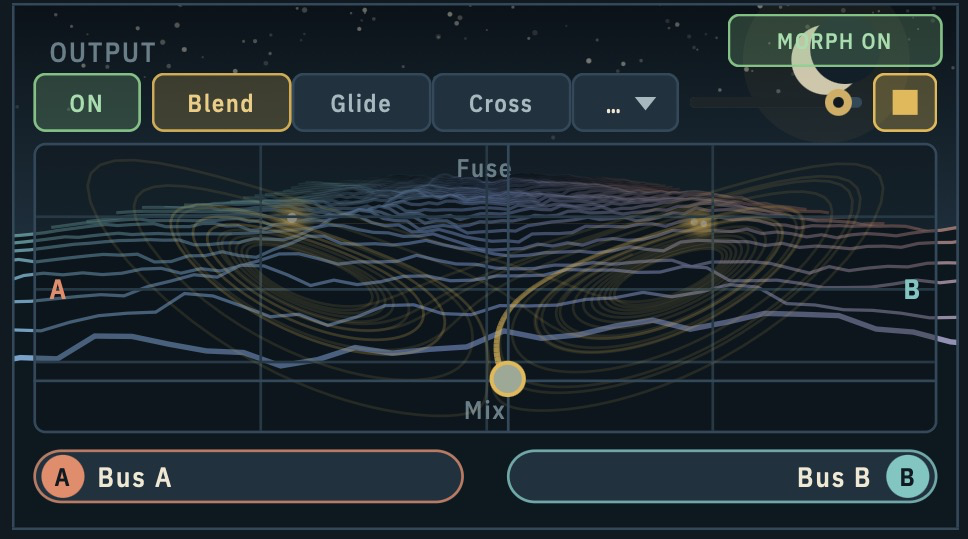
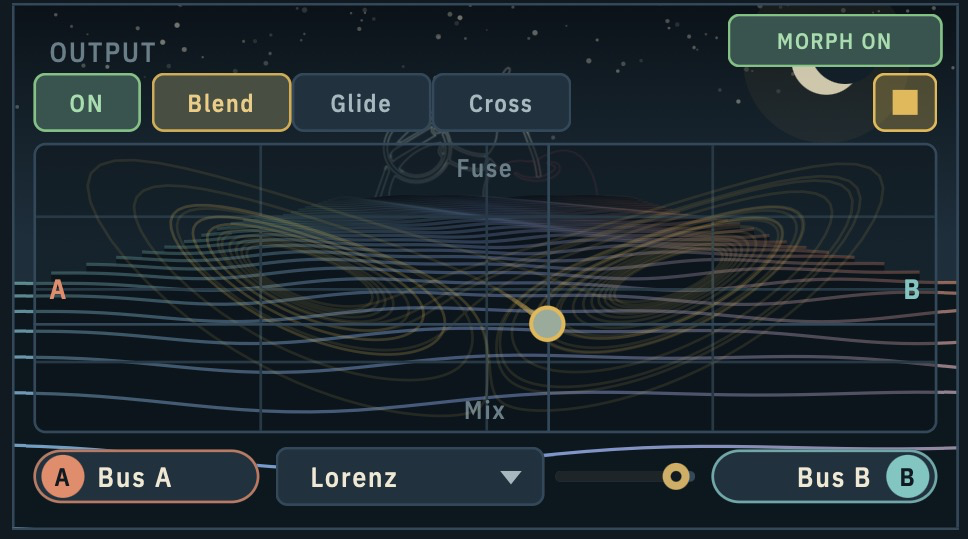
Swooshbuckler: undo in edit order, honest Boost readout, morph pad fixes
- Cmd+Z / Shift+Cmd+Z undo and redo the latest load or removal across all
  tracks (CargoHold keeps the order of edits), so x then Cmd+Z brings that
  track back wherever the selection went. Tested in CargoTest.
- Boost shows the gain the hits really get (-6 to +12 dB, default +6 dB);
  the stored value and the sound are unchanged.
- Lit buttons get a solid base, so the moon no longer shows through MORPH ON.
- Morph pad: narrower Bus A / Bus B labels with the wander shape menu and
  speed between them, so the shape names fit; the OFF veil leaves them be.

diff --git a/swooshbuckler/Source/MorphPad.cpp b/swooshbuckler/Source/MorphPad.cpp
@@ -241,8 +241,11 @@ void MorphPad::paintOverChildren(juce::Graphics& g)
     if (m_enabled)
         return;
     // A grey veil over the pad and the bus labels while the morph is off.
+    // The pad and each label on their own, so the wander controls between the labels only get their usual dimming.
     g.setColour(Theme::Colours::background.withAlpha(0.5f));
-    g.fillRoundedRectangle(m_pad.getUnion(m_handles[0]).getUnion(m_handles[1]).expanded(2.0f), 4.0f);
+    g.fillRoundedRectangle(m_pad.expanded(2.0f), 4.0f);
+    for (const auto& h : m_handles)
+        g.fillRoundedRectangle(h.expanded(2.0f), 4.0f);
     g.setFont(m_fonts.label(11.0f));
     g.setColour(Theme::Colours::textDim);
     g.drawText("MORPH OFF", m_pad.withTrimmedTop(m_pad.getHeight() * 0.62f), juce::Justification::centredTop);
@@ -410,6 +413,7 @@ void MorphPad::setFixedSources(juce::String nameA, juce::Colour colourA, juce::S
     m_fixedSources = true;
     m_names = { nameA, nameB };
     m_fixedColours = { colourA, colourB };
+    resized(); // narrower labels, with the wander shape and speed between them
     repaint();
 }
 
@@ -434,14 +438,31 @@ void MorphPad::resized()
         mb.setBounds(top.removeFromLeft(modeW));
     m_wanderButton->setBounds(top.removeFromRight(24));
     top.removeFromRight(4);
-    m_speed.setBounds(top.removeFromRight(juce::jmin(64, top.getWidth())));
-    top.removeFromRight(4);
-    m_shapeBox.setBounds(top.removeFromRight(juce::jmin(110, top.getWidth())));
 
-    auto bottom = b.removeFromBottom(24).toFloat();
-    const float handleW = juce::jmin(160.0f, bottom.getWidth() * 0.5f - 4.0f);
-    m_handles[0] = bottom.removeFromLeft(handleW).reduced(0.0f, 2.0f);
-    m_handles[1] = bottom.removeFromRight(handleW).reduced(0.0f, 2.0f);
+    auto bottom = b.removeFromBottom(24);
+    if (m_fixedSources)
+    {
+        // Fixed sources are just labels, so they can be narrow: the wander shape and speed sit between them,
+        // where the shape names have room to be read.
+        const int handleW = juce::jmin(84, bottom.getWidth() / 4);
+        m_handles[0] = bottom.removeFromLeft(handleW).toFloat().reduced(0.0f, 2.0f);
+        m_handles[1] = bottom.removeFromRight(handleW).toFloat().reduced(0.0f, 2.0f);
+        auto middle = bottom.reduced(6, 1);
+        m_speed.setBounds(middle.removeFromRight(juce::jmin(56, middle.getWidth() / 3)));
+        middle.removeFromRight(4);
+        m_shapeBox.setBounds(middle);
+    }
+    else
+    {
+        // Rope handles show lane names and need the width: the wander shape and speed go in the top row.
+        m_speed.setBounds(top.removeFromRight(juce::jmin(64, top.getWidth())));
+        top.removeFromRight(4);
+        m_shapeBox.setBounds(top.removeFromRight(juce::jmin(110, top.getWidth())));
+        const float handleW = juce::jmin(160.0f, static_cast<float>(bottom.getWidth()) * 0.5f - 4.0f);
+        auto bf = bottom.toFloat();
+        m_handles[0] = bf.removeFromLeft(handleW).reduced(0.0f, 2.0f);
+        m_handles[1] = bf.removeFromRight(handleW).reduced(0.0f, 2.0f);
+    }
 
     m_pad = b.toFloat().reduced(0.0f, 4.0f);
 }

diff --git a/swooshbuckler/Source/Cargo.cpp b/swooshbuckler/Source/Cargo.cpp
@@ -373,6 +373,10 @@ void CargoHold::publish(int track, std::shared_ptr<CargoData> data, bool recordU
                 retire(r);
             t.redo.clear();
             t.redoMeta.clear();
+            m_undoOrder.push_back(track);
+            if (m_undoOrder.size() > static_cast<size_t>(c_maxUndo * c_numTracks))
+                m_undoOrder.erase(m_undoOrder.begin());
+            m_redoOrder.clear(); // a new edit ends the redo chain, as in any editor
         }
 
         // Keep the old data alive a while even if no undo entry holds it (and while a player still reads it).
@@ -668,6 +672,54 @@ void CargoHold::fade(int track, int start, int end, bool fadeIn)
     publish(track, makeEdited(track, out), true);
 }
 
+int CargoHold::undoLatest()
+{
+    while (! m_undoOrder.empty())
+    {
+        const int track = m_undoOrder.back();
+        m_undoOrder.pop_back();
+        if (canUndo(track))
+        {
+            undo(track);
+            m_redoOrder.push_back(track);
+            return track;
+        }
+    }
+    return -1;
+}
+
+int CargoHold::redoLatest()
+{
+    while (! m_redoOrder.empty())
+    {
+        const int track = m_redoOrder.back();
+        m_redoOrder.pop_back();
+        if (canRedo(track))
+        {
+            redo(track);
+            m_undoOrder.push_back(track);
+            return track;
+        }
+    }
+    return -1;
+}
+
+bool CargoHold::canUndoLatest() const
+{
+    for (const int track : m_undoOrder)
+        if (canUndo(track))
+            return true;
+    return false;
+}
+
+bool CargoHold::canRedoLatest() const
+{
+    for (const int track : m_redoOrder)
+        if (canRedo(track))
+            return true;
+    return false;
+}
+
 void CargoHold::undo(int track)
 {
     auto& t = m_tracks[static_cast<size_t>(track)];
@@ -882,6 +934,8 @@ void CargoHold::fromValueTree(const juce::ValueTree& tree)
         t.redo.clear();
         t.undoMeta.clear();
         t.redoMeta.clear();
+        m_undoOrder.clear();
+        m_redoOrder.clear();
         t.skipSilence = true;
         t.roleOverride = -1;
         t.userName = {};

diff --git a/swooshbuckler/Source/Parameters.h b/swooshbuckler/Source/Parameters.h
@@ -105,8 +105,16 @@ namespace Params
 
         layout.add(pct(ParamIDs::hitSense, "Hit Sensitivity", 0.5f));
         layout.add(std::make_unique<P>(ParameterID { ParamIDs::hitBoost, 2 }, "Hit Boost", NormalisableRange<float>(0.0f, 18.0f), 12.0f,
-                                       AudioParameterFloatAttributes().withLabel("dB").withStringFromValueFunction(
-                                           [](float v, int) { return "+" + String(v, 1) + " dB"; })));
+                                       // The stored value is 0..18 (sessions and presets keep it); the engine plays it 6 dB lower,
+                                       // so the readout shows the gain the hits really get: -6 .. +12 dB.
+                                       AudioParameterFloatAttributes().withLabel("dB")
+                                           .withStringFromValueFunction([](float v, int)
+                                           {
+                                               // Round first so values just under 0 read "+0.0", not "-0.0".
+                                               const float db = std::round((v - 6.0f) * 10.0f) / 10.0f;
+                                               return (db >= 0.0f ? "+" : "") + String(db == 0.0f ? 0.0f : db, 1) + " dB";
+                                           })
+                                           .withValueFromStringFunction([](const String& t) { return t.retainCharacters("-+.0123456789").getFloatValue() + 6.0f; })));
         layout.add(std::make_unique<P>(ParameterID { ParamIDs::hitRelease, 2 }, "Hit Release", NormalisableRange<float>(0.0f, 1.0f), 0.35f,
                                        AudioParameterFloatAttributes().withStringFromValueFunction(
                                            [](float v, int) { return String(roundToInt(60.0f + v * 1140.0f)) + " ms"; })));

diff --git a/swooshbuckler/Source/CargoHoldView.cpp b/swooshbuckler/Source/CargoHoldView.cpp
@@ -823,8 +823,8 @@ void CargoHoldView::updateButtons()
             case Action::FadeIn: case Action::FadeOut: enabled = sel; break;
             case Action::Reverse: case Action::Normalise: enabled = hasData; break;
             case Action::Paste: enabled = m_hold.hasClipboard(); break;
-            case Action::Undo: enabled = m_hold.canUndo(m_active); break;
-            case Action::Redo: enabled = m_hold.canRedo(m_active); break;
+            case Action::Undo: enabled = m_hold.canUndoLatest(); break;
+            case Action::Redo: enabled = m_hold.canRedoLatest(); break;
             case Action::Load: break;
         }
         b->setEnabled(enabled);
@@ -860,8 +860,19 @@ void CargoHoldView::perform(Action action)
         case Action::Normalise: if (lane.hasData()) m_hold.normalise(t, s, e); break;
         case Action::FadeIn:    if (sel) m_hold.fade(t, s, e, true); break;
         case Action::FadeOut:   if (sel) m_hold.fade(t, s, e, false); break;
-        case Action::Undo:      m_hold.undo(t); break;
-        case Action::Redo:      m_hold.redo(t); break;
+        // Undo / redo follow the order of the edits across every track (so x then Cmd+Z brings that track back,
+        // wherever the selection went), and select the track they acted on.
+        case Action::Undo:
+        case Action::Redo:
+        {
+            const int acted = action == Action::Undo ? m_hold.undoLatest() : m_hold.redoLatest();
+            if (acted >= 0 && m_lanes[static_cast<size_t>(acted)]->hasData())
+                setActiveTrack(acted);
+            for (auto& l : m_lanes)
+                l->refresh();
+            updateButtons();
+            return;
+        }
     }
     lane.refresh();
     updateButtons();

diff --git a/swooshbuckler/Source/PluginEditor.cpp b/swooshbuckler/Source/PluginEditor.cpp
@@ -645,7 +645,7 @@ SwooshbucklerAudioProcessorEditor::SwooshbucklerAudioProcessorEditor(Swooshbuckl
 
     // Hits + output --------------------------------------------------------------
     addKnob(ParamIDs::hitSense, "Sensitivity", TC::record, "How easily the hit gate opens. It listens to buses A and B together; what counts as a trigger depends on the GATE mode. Low: only the biggest moments fire the hits. High: they fire often.");
-    addKnob(ParamIDs::hitBoost, "Boost", TC::record, "How much the hit tracks jump up when the gate opens (up to +18 dB). More makes the hits punch out of the whoosh.");
+    addKnob(ParamIDs::hitBoost, "Boost", TC::record, "How much the hit tracks jump up when the gate opens, from 6 dB under their own level to 12 dB over it. More makes the hits punch out of the whoosh.");
     addKnob(ParamIDs::hitRelease, "Release", TC::record, "How long the hits tail out after the gate opens. Short: tight, dry impacts. Long: the hits ring on into the next swell.");
     addKnob(ParamIDs::hitHold, "Hold", TC::record, "How long the gate stays open once it opens. Longer stops it chattering open and shut, so each hit reads as one event.");
     addKnob(ParamIDs::hitFloor, "Floor", TC::record, "How far the gate closes between hits. Closed (fully left): the hits vanish completely between peaks, like the original rig. Turn it up and they stay quietly under the mix instead.");

diff --git a/swooshbuckler/Source/Cargo.h b/swooshbuckler/Source/Cargo.h
@@ -151,6 +151,12 @@ public:
     void redo(int track);
     bool canUndo(int track) const { return ! m_tracks[static_cast<size_t>(track)].undo.empty(); }
     bool canRedo(int track) const { return ! m_tracks[static_cast<size_t>(track)].redo.empty(); }
+    /** Undo / redo across every track, in the order the edits were made (what Cmd+Z and Shift+Cmd+Z do).
+        Return the track they acted on, or -1 when there is nothing to undo / redo. */
+    int undoLatest();
+    int redoLatest();
+    bool canUndoLatest() const;
+    bool canRedoLatest() const;
     bool hasClipboard() const { return m_clipboard.getNumSamples() > 0; }
 
     juce::AudioFormatManager& getFormatManager() { return m_formats; }
@@ -194,6 +200,10 @@ private:
     bool validRange(int track, int& start, int& end) const;
 
     std::array<Track, c_numTracks> m_tracks;
+    // Which track each undoable edit touched, oldest first (message thread). An edit pushes its track to
+    // m_undoOrder and empties m_redoOrder; undoLatest / redoLatest move tracks between the two. Entries whose
+    // track has nothing left to undo (history trimmed at c_maxUndo) are skipped.
+    std::vector<int> m_undoOrder, m_redoOrder;
     std::array<std::atomic<bool>, c_numLanes> m_mute {}, m_solo {};   //
     std::atomic<int> m_soloCount { 0 };
     std::array<std::atomic<float>, c_numTracks> m_start {};

diff --git a/swooshbuckler/Tests/CargoTest.cpp b/swooshbuckler/Tests/CargoTest.cpp
@@ -302,6 +302,22 @@ int main(int argc, char* argv[])
             lane.redo(1);
             check(lane.get(1) == nullptr && lane.getRoleOverride(1) == -1 && lane.getDisplayName(1) == "Track 2",
                   "cargo: redo clears them again");
+
+            // Cmd+Z / Shift+Cmd+Z follow the order of the edits across tracks (remove two, load one, then undo).
+            CargoHold order;
+            order.loadFile(0, tmp, err);
+            order.loadFile(1, tmp, err);
+            order.clear(0);
+            order.clear(1);
+            order.loadFile(2, tmp, err);
+            const int u1 = order.undoLatest(), u2 = order.undoLatest(), u3 = order.undoLatest();
+            check(u1 == 2 && order.get(2) == nullptr, "undo order: the latest edit (a load on track 3) goes first");
+            check(u2 == 1 && order.get(1) != nullptr && u3 == 0 && order.get(0) != nullptr,
+                  "undo order: then the removals, newest first, so both removed tracks come back");
+            const int r1 = order.redoLatest();
+            check(r1 == 0 && order.get(0) == nullptr && order.get(1) != nullptr, "undo order: redo replays the most recently undone edit first");
+            order.loadFile(3, tmp, err);
+            check(! order.canRedoLatest() && order.redoLatest() == -1, "undo order: a new edit ends the redo chain");
         }
     }
 

diff --git a/swooshbuckler/Source/RigEngine.cpp b/swooshbuckler/Source/RigEngine.cpp
@@ -654,7 +654,7 @@ void RigEngine::renderHits(int frames)
     const float sense = sj::clamp(m_params.hitSense, 0.0f, 1.0f);
     const float threshold = sj::dbToGain(-0.5f - 3.0f * sense);         // how close to the recent peak
     const float overAverage = sj::dbToGain(3.0f + 5.0f * (1.0f - sense)); // and how far above the average
-    const float boost = sj::dbToGain(m_params.hitBoost - 6.0f);
+    const float boost = sj::dbToGain(m_params.hitBoost - 6.0f); // the Boost readout shows this (-6 .. +12 dB)
     const float release = 1.0f - std::exp(-1.0f / (0.001f * sj::lerp(60.0f, 1200.0f, m_params.hitRelease) * m_fs));
     const float attack = coef(2.0f, m_fs);
     const float holdTime = 0.5f * sj::clamp(m_params.hitHold, 0.0f, 1.0f);

diff --git a/swooshbuckler/Source/LookAndFeel.cpp b/swooshbuckler/Source/LookAndFeel.cpp
@@ -102,6 +102,9 @@ void SwooshLookAndFeel::drawButtonBackground(juce::Graphics& g, juce::Button& bu
     const auto accent = button.findColour(juce::TextButton::buttonOnColourId);
     const bool on = button.getToggleState();
 
+    // A solid base first, so nothing behind shows through a lit button (e.g. the moon behind MORPH ON).
+    g.setColour(TC::panelRaised);
+    g.fillRoundedRectangle(r, 4.0f);
     g.setColour(on ? accent.withAlpha(down ? 0.38f : 0.22f) : TC::panelRaised.brighter(over ? 0.12f : 0.0f).darker(down ? 0.2f : 0.0f));
     g.fillRoundedRectangle(r, 4.0f);
     g.setColour(on ? accent.withAlpha(0.9f) : (over ? TC::outline.brighter(0.5f) : TC::outline));

diff --git a/swooshbuckler/README.md b/swooshbuckler/README.md
@@ -142,7 +142,7 @@ Changing a track's type is how you move it to the other bus.
 
 **Undo**
 
-Click a lane first, then press Cmd+Z (Ctrl+Z on Windows) to undo loading a sound or removing a track on that lane, and Shift+Cmd+Z (Ctrl+Shift+Z) to redo. Each track keeps up to 40 steps.
+With the Tracks panel focused (click it first), Cmd+Z (Ctrl+Z on Windows) undoes the last sound you loaded or the last track you removed, on whichever track it was, and selects that track. Shift+Cmd+Z (Ctrl+Shift+Z) redoes it. Remove three tracks and three presses bring them all back. Each track keeps up to 40 steps.
 
 **Hit sync view**
 
@@ -204,7 +204,7 @@ Every Impact track plays here, and only when the hit gate opens. The gate listen
 | **GATE** box | Peaks / Level / Jumps / Open (Peaks) | What opens the gate. **Peaks**: the loudest moments of the two buses. **Level**: any time they're louder than a level set by Sensitivity. **Jumps**: sudden rises, however loud or quiet. **Open**: no gate, the hits always play. |
 | **DUCK** box | Volume / Darken / Mids (Volume) | How a ducked bus gets out of the way: turned down, low-passed, or only its crowded middle (250 Hz to 4 kHz) turned down. This also applies to bus A ducking bus B. |
 | **Sensitivity** | 0–100% (50%) | How easily the gate opens. Low: only the biggest moments fire the hits. High: they fire often. |
-| **Boost** | 0 to +18 dB (+12 dB) | How much the hits jump up when the gate opens. |
+| **Boost** | −6 to +12 dB (+6 dB) | How much the hits jump up when the gate opens. |
 | **Release** | 60 ms to 1.2 s (459 ms) | How long the hits tail out after the gate shuts. |
 | **Hold** | 0–500 ms (60 ms) | How long the gate stays open after the last trigger. Longer stops it chattering, so each hit reads as one event. |
 | **Floor** | Closed, or −40 to −3 dB (Closed) | How far the gate closes between hits. Closed: the hits vanish between peaks. Turn it up and they stay quietly under the mix. |
@@ -263,8 +263,8 @@ The morph blends bus A into bus B spectrally, so the two sounds trade tone and p
 
 - **Click or drag** on the pad to move the dot. **Double-click** to put it back in the middle.
 - **Wander** (the play button at the top right) makes the dot move along a shape by itself, so the morph keeps moving. The whole shape is drawn faintly, with a bright trail behind the dot. Click it again, or click the pad, to stop.
-  - The **slider** beside it sets the speed, from a slow drift to busy.
-  - The **shape menu** picks the path:
+  - The **speed slider**, along the bottom between the Bus A and Bus B labels, sets how fast it goes, from a slow drift to busy.
+  - The **shape menu**, beside it, picks the path:
     - **Lorenz** (the default): a chaotic loop that swaps between two wings and never repeats.
     - **Sweet Justice**: the outline of the Sweet Justice Sound logo.
     - **Figure Eight**, **Rose** and **Circle**: these turn slowly, one degree per lap, so they never repeat exactly.
@@ -359,7 +359,7 @@ Anything else a preset doesn't set goes back to its default. **Back to Defaults*
 | Space bar (hold) | Swell. With a track lane selected, it gives a short swell instead: click outside Tracks for a held one. |
 | Any MIDI note (hold) | Swell, for as long as any note is held. Notes only work while the rig is playing. |
 | Click the sea | A short swell. |
-| Cmd+Z / Shift+Cmd+Z (Ctrl+Z / Ctrl+Shift+Z on Windows) | Undo and redo loading or removing on the selected track. Click a lane first. |
+| Cmd+Z / Shift+Cmd+Z (Ctrl+Z / Ctrl+Shift+Z on Windows) | Undo and redo the last load or removal in Tracks, newest first. Click the Tracks panel first. |
 | Esc | Closes Settings or About. |
 | Double-click a knob | Resets it. |
 | Double-click a track name | Renames it. |
